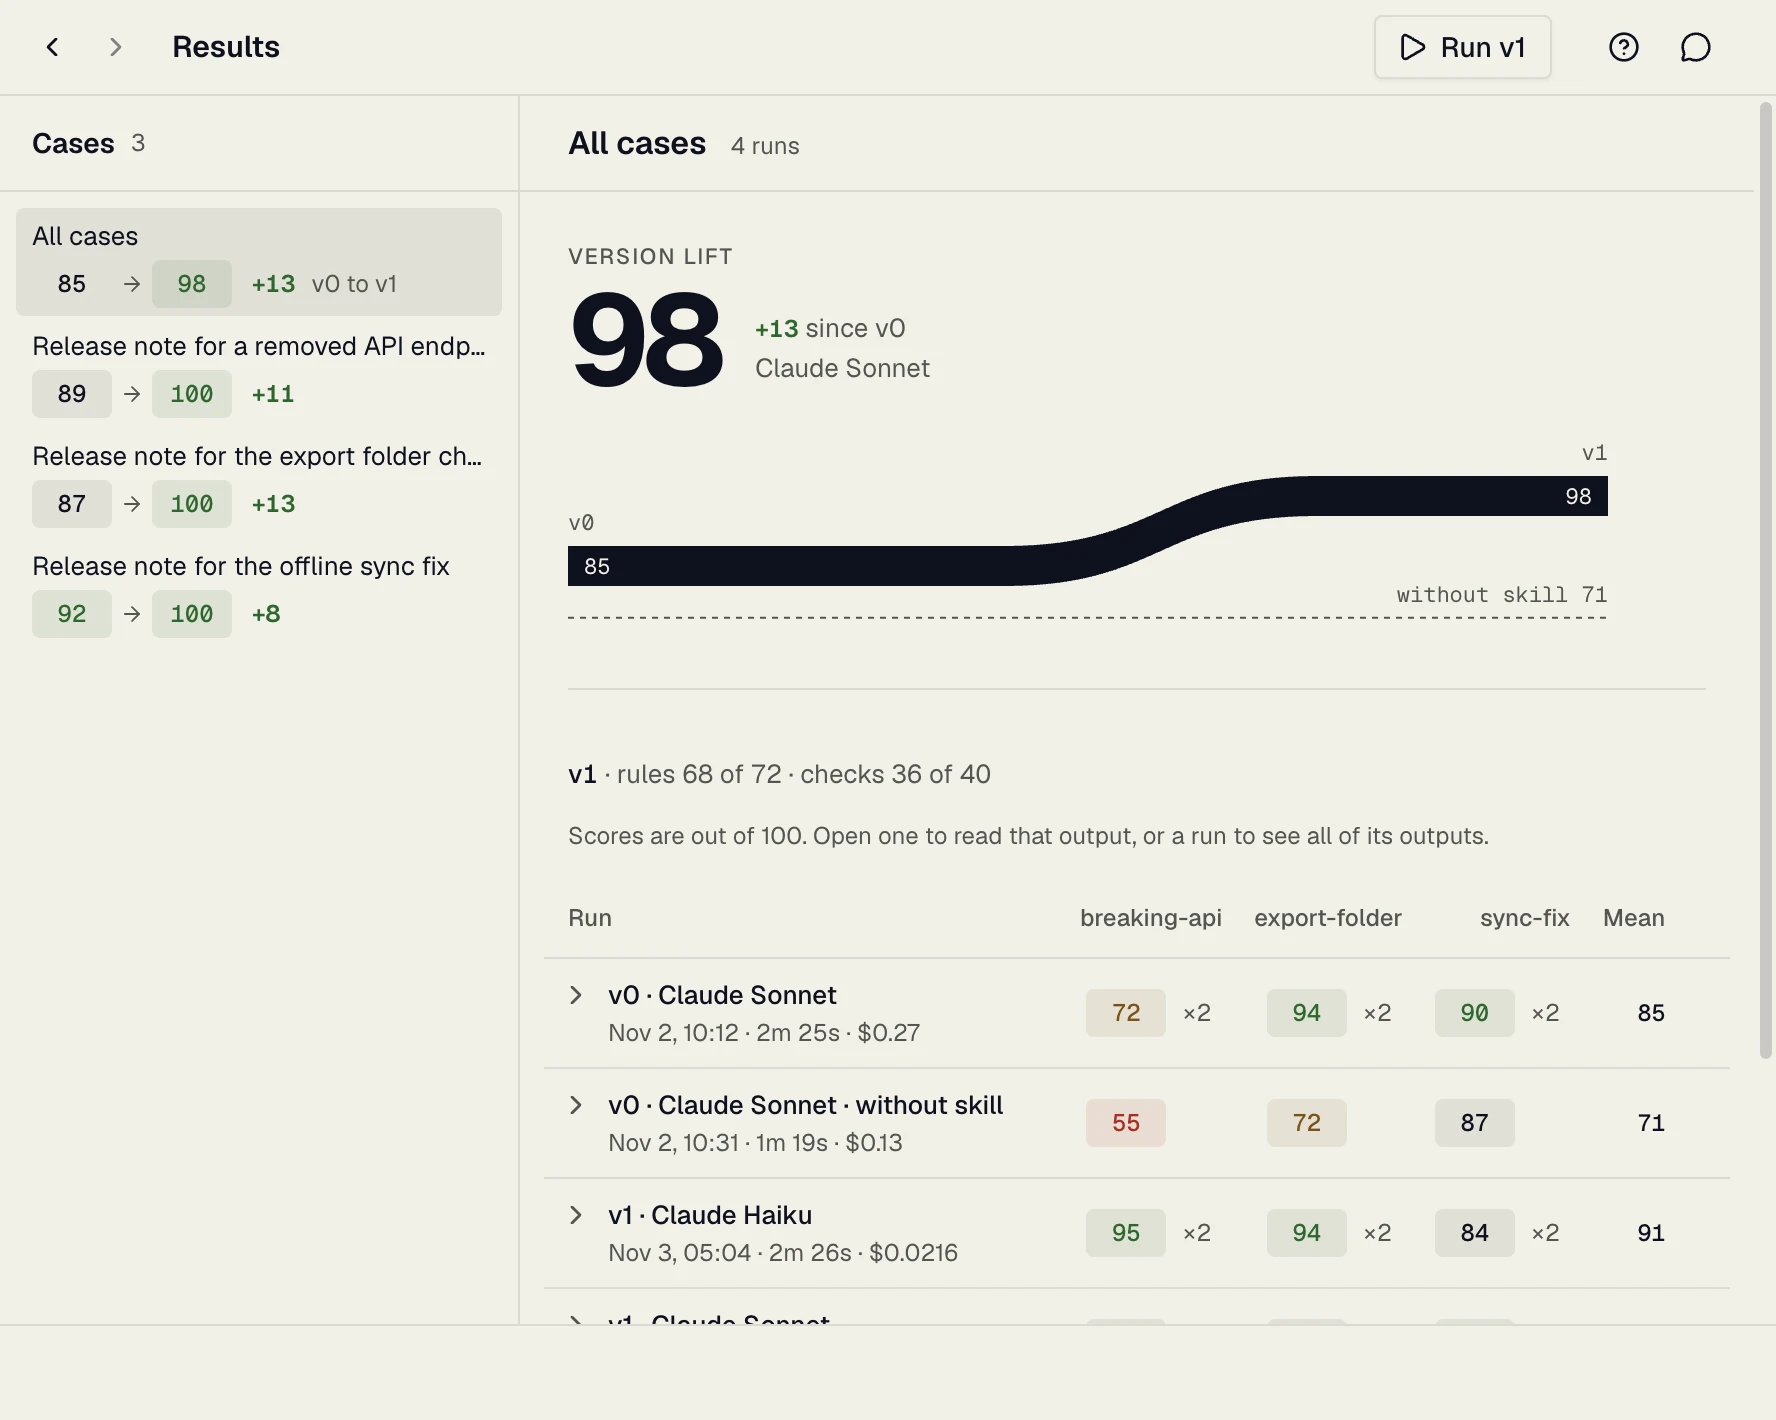
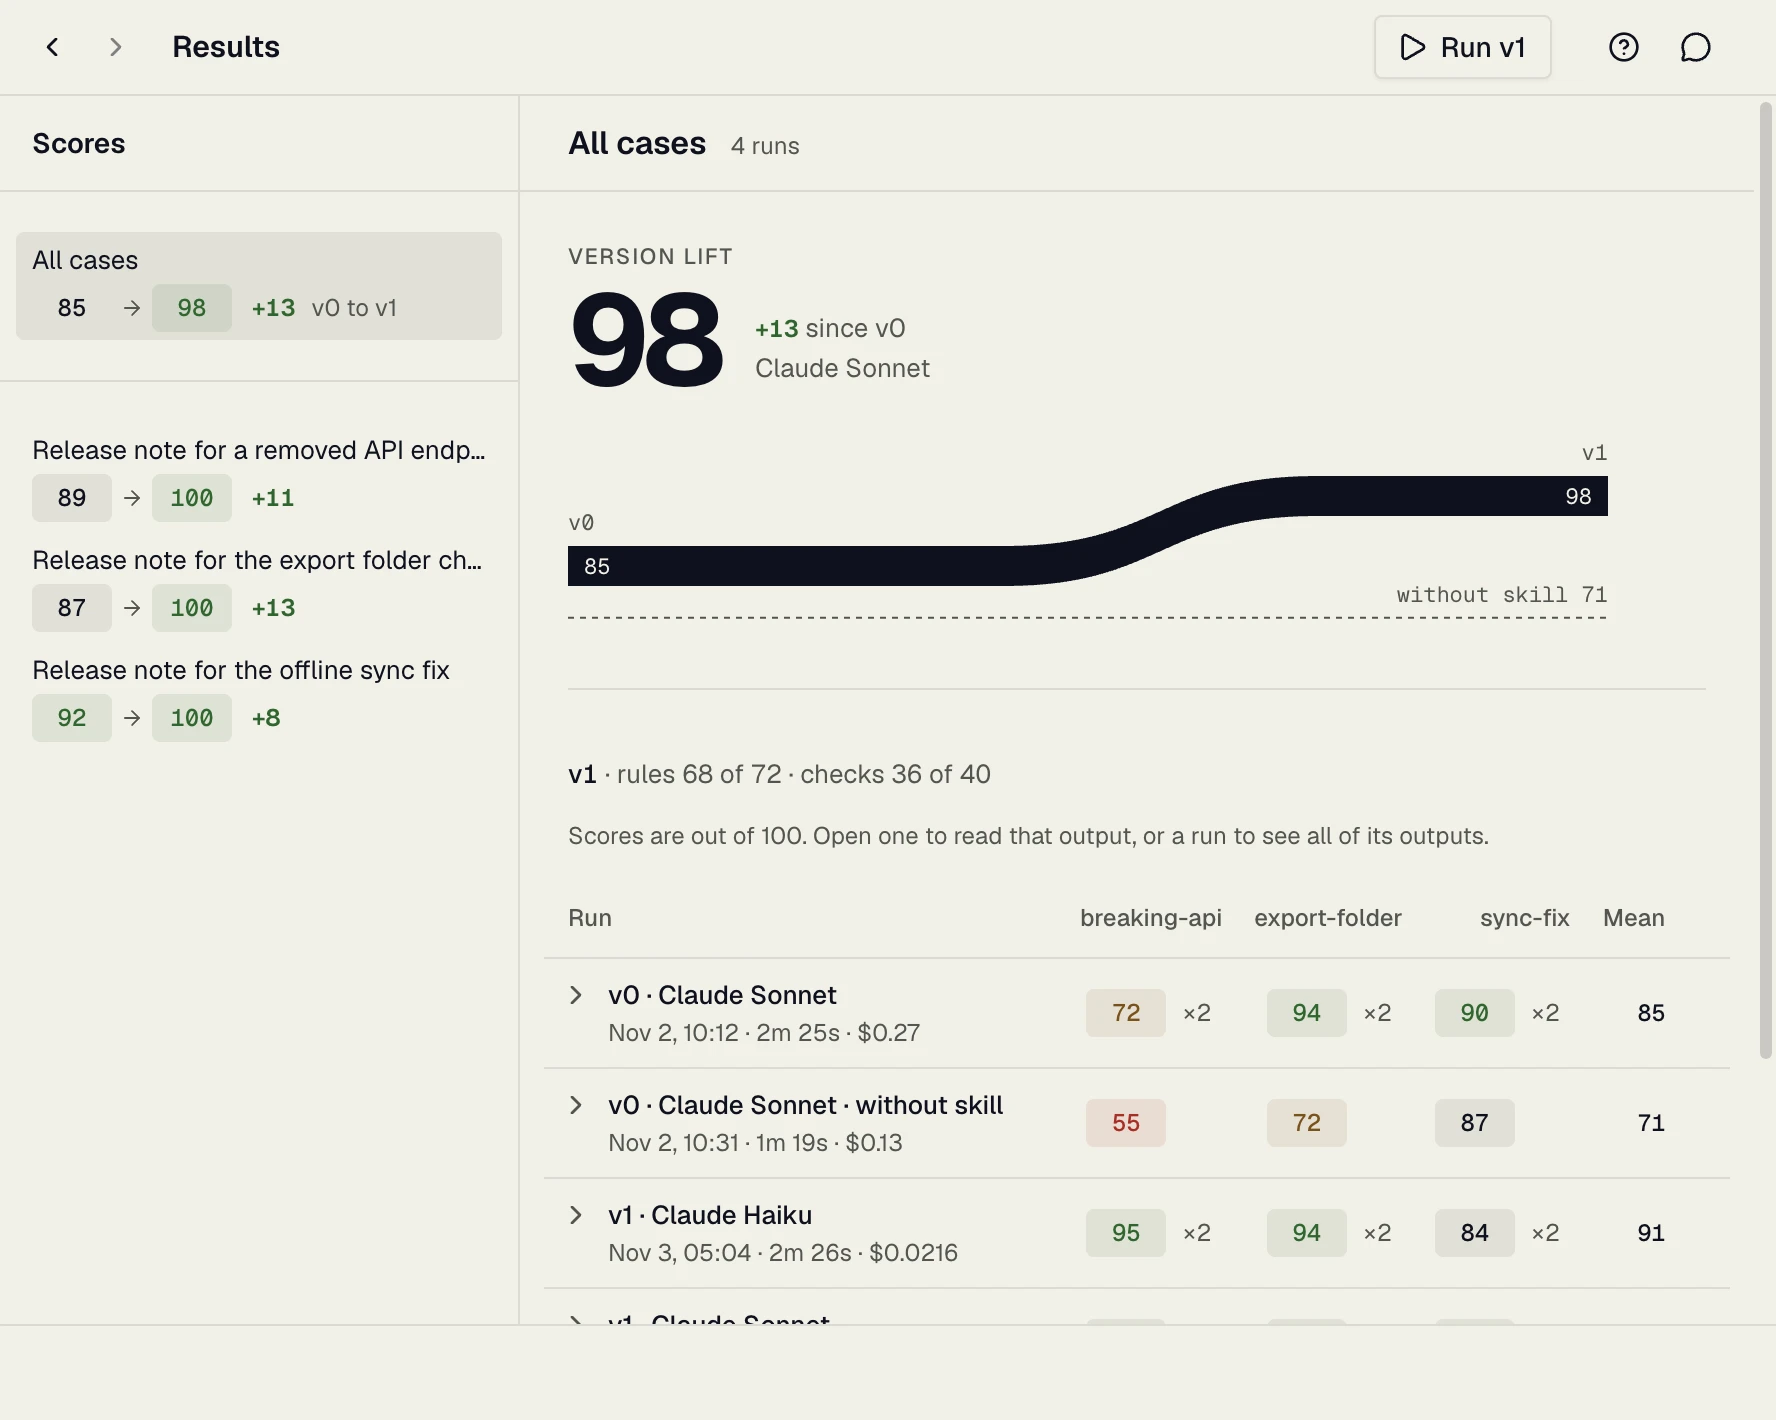
Set the Results list apart from the Cases screen
The list on Results is headed Scores, and a rule sets All cases apart
from the cases under it. After a run without the skill, All cases shows
that run's score, marked "Without skill", where it showed nothing.

diff --git a/src/renderer/screens/Results.tsx b/src/renderer/screens/Results.tsx
@@ -12,8 +12,8 @@ import { memo, useMemo } from 'react'
 import { Comparison } from '../components/Comparison.tsx'
 import {
   Column,
-  ColumnBody,
   ColumnHeader,
+  ColumnSection,
   EmptyState,
   PlainList,
   Workbench,
@@ -29,6 +29,7 @@ import {
   casesRun,
   caseTitle,
   liftOf,
+  noSkillScore,
   type Output,
   outputByKey,
   totalOf,
@@ -47,6 +48,11 @@ export const Results = memo(function Results({ ctx }: { ctx: Ctx }) {
   const latest = useMemo(() => versionsRun(outputs).at(-1), [outputs])
   const latestScore = useMemo(
     () => (latest ? versionScore(outputs, config, latest) : null),
+    [outputs, config, latest],
+  )
+  // Before the skill's first run, the only score is the one written without it.
+  const floor = useMemo(
+    () => (latest ? null : noSkillScore(outputs, config)),
     [outputs, config, latest],
   )
   /** Each case's pair to read first, with both totals. */
@@ -112,15 +118,14 @@ export const Results = memo(function Results({ ctx }: { ctx: Ctx }) {
       <Column kind="list">
         <nav aria-label="Results" className="contents">
           <ColumnHeader inset="list">
+            {/* Scores, not Cases: the Cases screen's list is headed Cases, and the two must not read alike. */}
             <Heading level={3} as="h2">
-              Cases
+              Scores
             </Heading>
-            <Text tone="muted" size="xs" tabular>
-              {caseIds.length}
-            </Text>
           </ColumnHeader>
-          <ColumnBody inset="list">
-            <PlainList gap="none">
+          {/* All cases is the run as a whole, not one more case: a rule sets it apart from them. */}
+          <ColumnSection inset="list">
+            <PlainList gap="none" bleed>
               <li>
                 <NavButton current={all} onClick={() => go('results', { view: 'all' })}>
                   <Text size="ui">All cases</Text>
@@ -138,9 +143,20 @@ export const Results = memo(function Results({ ctx }: { ctx: Ctx }) {
                         {latest}
                       </Text>
                     </span>
+                  ) : floor !== null ? (
+                    <span className="flex items-center gap-2">
+                      <ScoreMove from={null} to={floor} />
+                      <Text tone="muted" size="xs">
+                        Without skill
+                      </Text>
+                    </span>
                   ) : null}
                 </NavButton>
               </li>
+            </PlainList>
+          </ColumnSection>
+          <ColumnSection inset="list">
+            <PlainList gap="none" bleed>
               {rows.map(({ id, totals }) => (
                 <li key={id}>
                   <NavButton
@@ -155,7 +171,7 @@ export const Results = memo(function Results({ ctx }: { ctx: Ctx }) {
                 </li>
               ))}
             </PlainList>
-          </ColumnBody>
+          </ColumnSection>
         </nav>
       </Column>
       <Column>

diff --git a/src/renderer/model.ts b/src/renderer/model.ts
@@ -189,6 +189,20 @@ export function versionScore(
   return mean(Object.values(caseMeans(pinned.length ? pinned : mine, config)))
 }
 
+/**
+ * The score of the outputs written without the skill, counted as a version's
+ * is: each case's mean, then the mean of those cases. Null when none is graded.
+ */
+export const noSkillScore = (outputs: Output[], config: BenchConfig): number | null =>
+  mean(
+    Object.values(
+      caseMeans(
+        outputs.filter((o) => o.run.meta?.configuration === 'without_skill'),
+        config,
+      ),
+    ),
+  )
+
 export const mergedConfig = (saved: Partial<BenchConfig> | null): BenchConfig =>
   mergeConfig(saved, scorers)
 

diff --git a/src/renderer/model.test.ts b/src/renderer/model.test.ts
@@ -14,6 +14,7 @@ import {
   liftOf,
   listLine,
   mergedConfig,
+  noSkillScore,
   outputFacts,
   outputNames,
   outputsOf,
@@ -207,6 +208,7 @@ describe('liftOf and versionScore', () => {
     const outputs = outputsOf(state)
     expect(liftOf(state, outputs, saved)).toBeNull()
     expect(versionScore(outputs, saved, 'v2')).toBeNull()
+    expect(noSkillScore(outputs, saved)).toBeNull()
   })
 })
 

diff --git a/docs/design/layout.md b/docs/design/layout.md
@@ -89,7 +89,7 @@ A box around a region adds an edge the eye has to cross and takes 32px of width 
 | --- | --- |
 | `Column kind` | `list` (260px), `side` (260px, a list beside an item that is the screen's point: after the item once the columns stack, as the Skill screen's files follow the document), `main` |
 | `Column over` | a file is held over a column that takes a drop: the column takes `bg-accent` at 60% until it is dropped or leaves. The case's main column, where a picture, file or folder dropped anywhere joins the case's files (`useFileDrop` in `renderer/drop.ts`). A note that changes while a file is dragged would move everything under it. |
-| `ListHeader` | a list column's title, count and add button. A list nothing is added to (the cases on Results) is a `ColumnHeader inset="list"` with the title and count alone. |
+| `ListHeader` | a list column's title, count and add button. A list nothing is added to (the scores on Results) is a `ColumnHeader inset="list"` with the title alone, named for what it shows that the Cases list does not: "Scores". |
 | `ColumnHeader`, `ColumnTitle` | the main column's name and its actions |
 | `ColumnToolbar`, `ToolbarGroup`, `ToolbarItem` | a row of tools under the header |
 | `ColumnBody`, `ColumnSection` | the scrolling content, split by hairlines |
@@ -98,7 +98,7 @@ Insets are fixed: 16px in a list, 24px in main (`inset="list" | "main"`). A list
 
 ### A list workbench, the Cases pattern
 
-Copy `screens/Cases.tsx` for any screen that lists items and edits the one picked. `screens/Results.tsx` is the same pattern read-only: it lists the cases and compares the one picked.
+Copy `screens/Cases.tsx` for any screen that lists items and edits the one picked. `screens/Results.tsx` is the same pattern read-only: it lists the cases and compares the one picked. Its list is two `ColumnSection`s: **All cases**, the run as a whole, then the cases, so a rule sets the summary apart from the items.
 
 - The selection lives in the route: read `route.params`, change it with `go(screen, params)`. Back and Forward then follow it. Never hold it in `useState`.
 - The main column is `ColumnHeader` (the item's name, then Save, primary last) over `ColumnBody width="form"`, which holds `FormSection layout="stacked"` sections. Save is `default` only while pressing it saves something, and `ghost` and disabled otherwise, so a saved item's header has no filled slab in it (the Skill screen's Save does the same).

diff --git a/docs/guide.md b/docs/guide.md
@@ -244,7 +244,7 @@ Runs cost money: each output is an agent session, and Jev is paid per call.
 
 Results opens on a case with two outputs to compare: **A**, the version before, and **B**, the latest. With one version, A is the output written without the skill, if you ran one.
 
-- **The list** on the left has every case that was run, with how its score moved. Click one to compare it.
+- **Scores**, the list on the left, has every case that was run, with how its score moved. Click one to compare it.
 - **Each output** has its version and its score out of 100. Click the version to read another output of the case on that side: each is listed with who wrote it and when. Under the version, a line names what tells the two outputs apart besides their version, such as the agent that wrote each when they differ.
 - **Click the score** to see what it is counted from, "Rules 4 of 5", "Checks 2 of 3", and how the output was made: who wrote it, when, which attempt, and its length against what the case asks. A check marked ×2 counts two. A part with a dotted line, such as **Look** or **Process**, comes from a kind of work under **Graded as**, below: click it to read what it grades, and **Change what is graded** to turn it off.
 - **Missed** lists each rule from your skill that the output broke, each check it did not meet and, for a page or a picture, each flaw in how it looks. Every output is graded on the skill's rules, the one written without the skill too: there, a miss shows what the skill adds. **Open rule**, beside each rule, takes you to that rule on the Skill screen.

diff --git a/CHANGELOG.md b/CHANGELOG.md
@@ -6,6 +6,11 @@ The format follows [Keep a Changelog](https://keepachangelog.com/en/1.1.0/), and
 
 ## [Unreleased]
 
+### Changed
+
+- On Results, the list on the left is headed **Scores**, so it no longer reads like the Cases screen. It lists the same cases, each with how its score moved, under a line that sets **All cases** apart from them.
+- After a run without the skill, **All cases** shows that run's score, marked "Without skill". Before, it showed no score until the skill itself was run.
+
 ## [0.9.0] - 2026-11-12
 
 ### Changed
